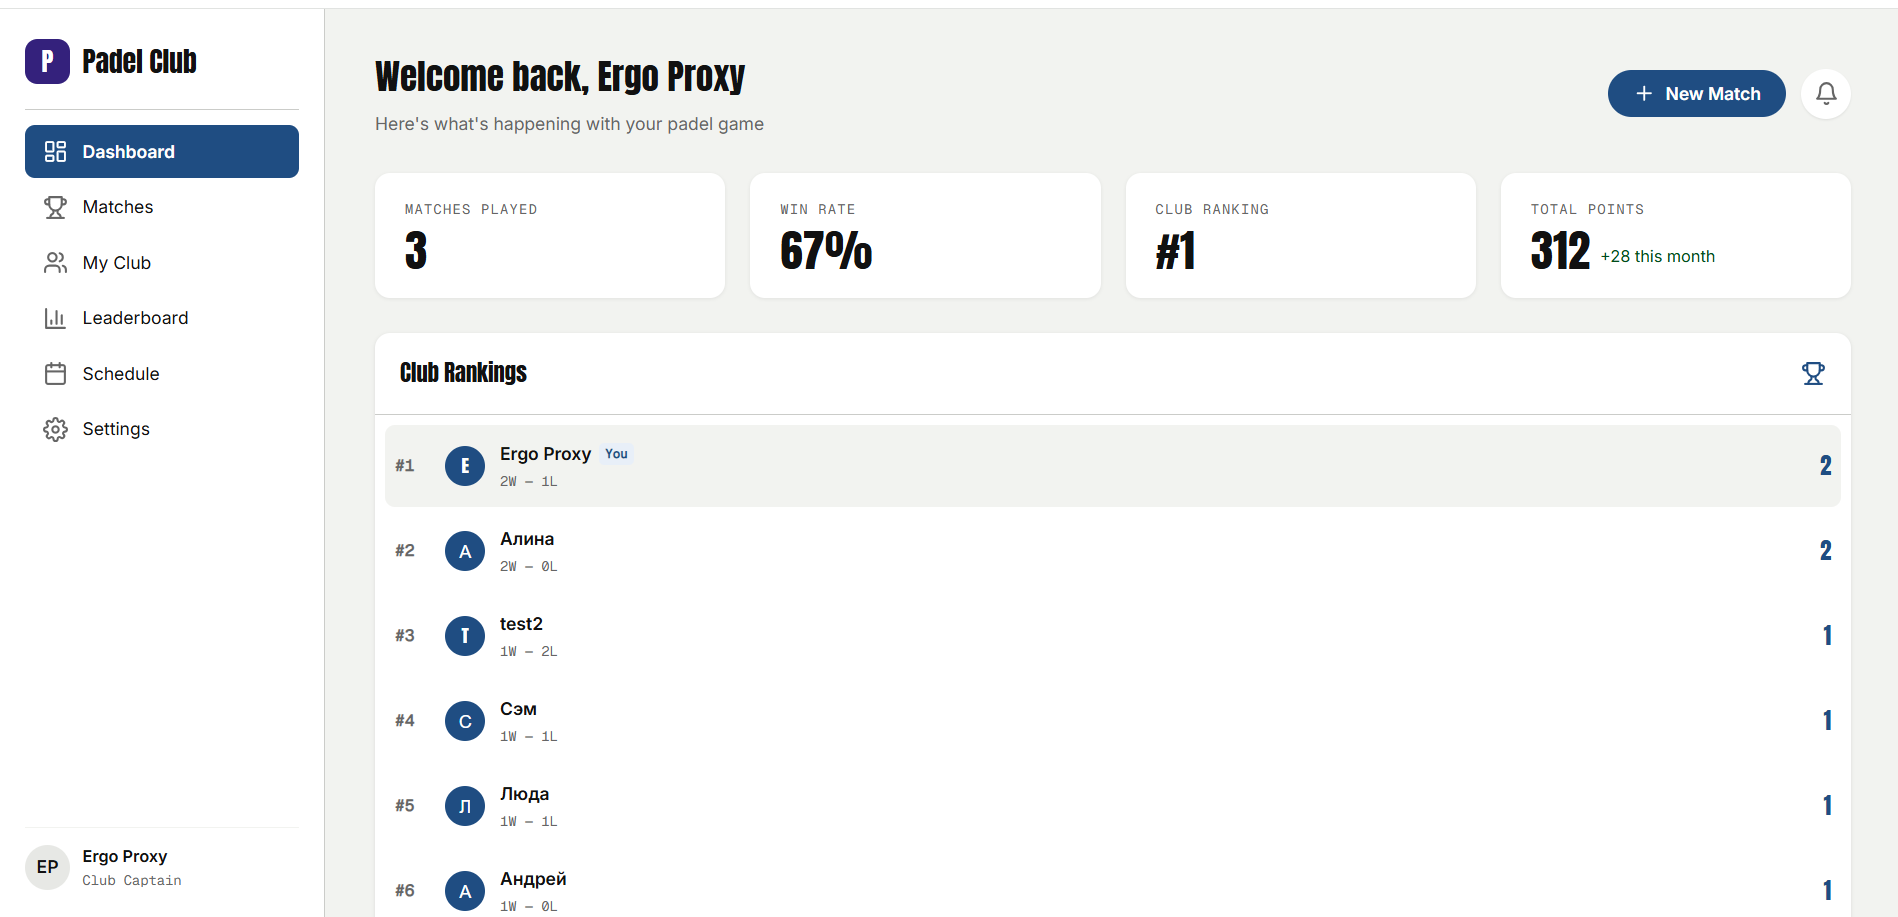
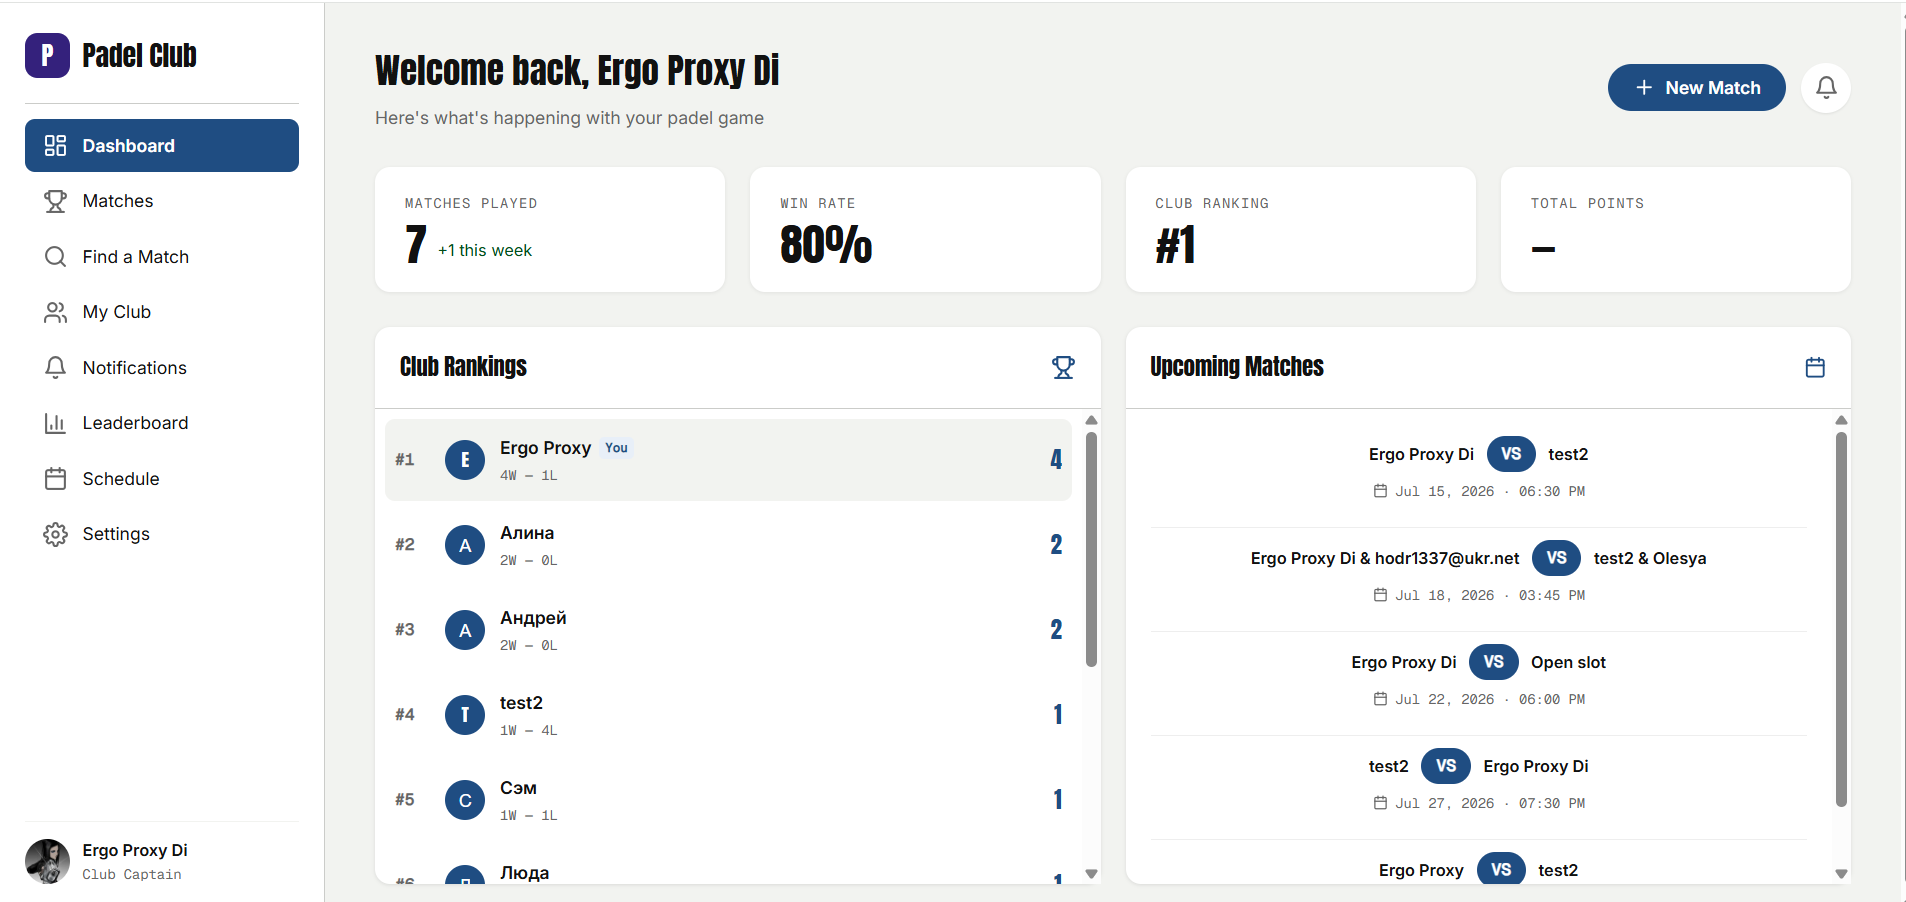
updated readme

diff --git a/README.md b/README.md
@@ -13,24 +13,23 @@ The project is built with Vue 3, TypeScript, Pinia, and Firebase to demonstrate 
 
 ### Implemented
 
-- Firebase Authentication
-- Google Sign-In
-- Protected routes
-- Session persistence
-- User profile creation in Firestore
-
-### In Progress
-
-- Club management
-- Match recording
-- Elo rating system
-- Dashboard statistics
+- Firebase Authentication (email/password + Google Sign-In), protected routes, session persistence
+- Editable profile — display name, preferred padel side, avatar
+- Club management — create clubs, roster of guest and registered players
+- Match recording (1v1 / 2v2), multi-set scores, manual winner override
+- Match scheduling, with a "Play now" flow to convert a scheduled match into a recorded one
+- Elo rating system per club, recalculated automatically on match edit/delete
+- Standalone matches without a club — play with existing registered users (searched site-wide) and/or unregistered guest players; registered participants also get a global rating tracked on their profile
+- Find a Match — schedule a match with an open (unfilled) slot and let other users join it themselves
+- Consent & notifications — inviting a registered user into a club or a scheduled match requires their approval. They get a notification (bell icon + Notifications page) and can accept or decline; declining a match invite frees up just that slot instead of cancelling the whole match
+- Only the match's creator can start ("Play now") a scheduled match
+- Dashboard with stats, Club Rankings and Upcoming Matches panels
+- Real-time data throughout — clubs, rosters, matches, and notifications update live via Firestore listeners, no manual refresh needed
+- Per-player avatars (photo or initial) across match cards, with per-player invite-status badges
 
 ### Planned
 
-- Leaderboards
-- Match scheduling
-- Profile settings page
+- Global (cross-club) leaderboards
 
 ## Tech Stack
 
@@ -57,17 +56,20 @@ src
 │   ├── dashboard/
 │   ├── layout/
 │   ├── matches/
-│   ├── myclub
-│   └── quickmatch/
+│   ├── myclub/
+│   ├── quickmatch/
+│   └── shared/              # Cross-cutting UI (PlayerAvatar, TeamRoster)
 ├── firebase/
 │   └── index.ts            # Firebase configuration and initialization
 ├── router/
 │   └── index.ts            # Application routes and route guards
 ├── stores/
 │   ├── auth.ts             # Authentication state
-│   ├── clubs.ts            # Club management state
-│   ├── matches.ts          # Match management state
-│   ├── players.ts          # Player management state
+│   ├── clubs.ts            # Club state (live subscription)
+│   ├── matches.ts          # Match state (live subscription)
+│   ├── players.ts          # Player/roster state (live subscription)
+│   ├── notifications.ts    # Invite/notification state (live subscription)
+│   ├── users.ts            # Site-wide user profile cache (live subscription)
 │   └── index.ts            # Pinia instance
 ├── views/
 │   ├── LoginView.vue
@@ -77,10 +79,11 @@ src
 │   ├── MyClubView.vue
 │   ├── ClubView.vue
 │   ├── MatchesView.vue
-│   ├── NotificationsView.vue
 │   ├── QuickMatchView.vue
+│   ├── FindMatchView.vue
+│   ├── NotificationsView.vue
 │   └── SettingsView.vue
-├── App.vue
+├── App.vue                 # Hosts app-wide real-time subscriptions
 └── main.ts
 ```
 
@@ -93,6 +96,7 @@ The application follows a modular Vue 3 architecture:
 - **Stores** manage global application state using Pinia.
 - **Firebase** Firebase provides authentication and Firestore services.
 - **Router** manages navigation and protected routes.
+- **Real-time sync** — stores subscribe to Firestore via `onSnapshot` instead of one-off reads. Data shared across the whole app (clubs, notifications, the user profile cache) is subscribed once per session in `App.vue`; page-specific data (a club's roster, a match list) subscribes on mount and unsubscribes on unmount.
 
 ## Screenshots
 
